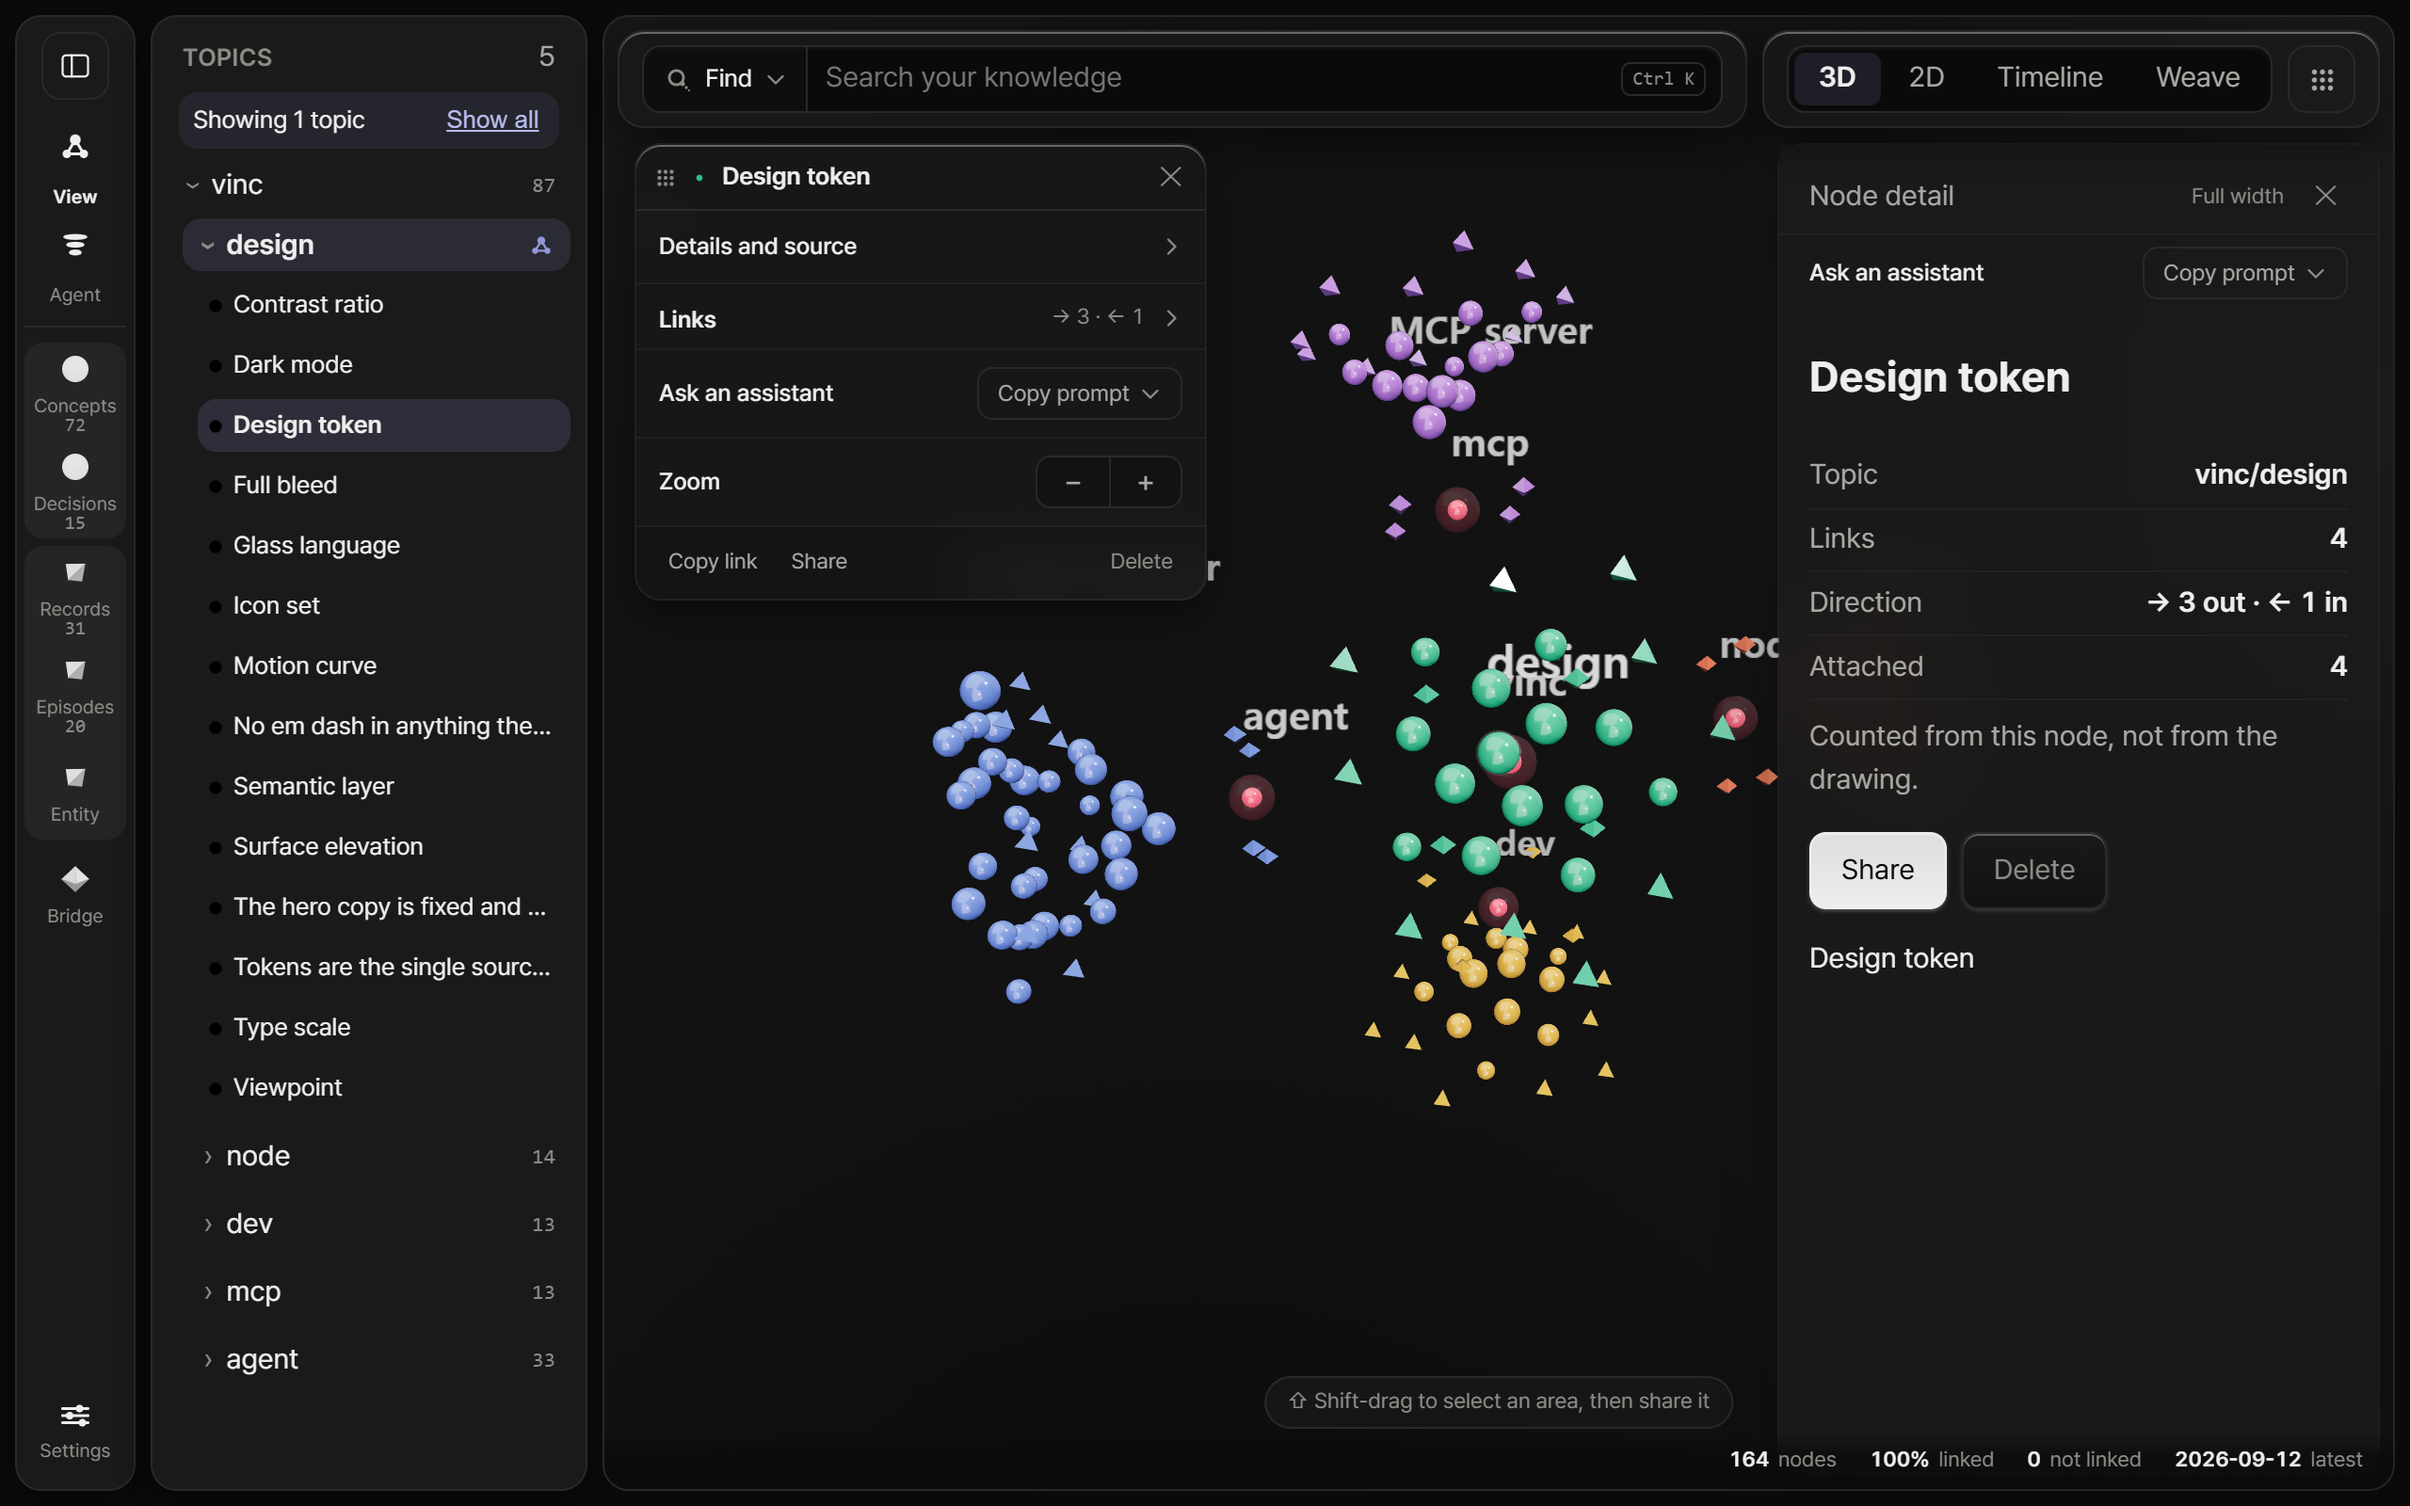
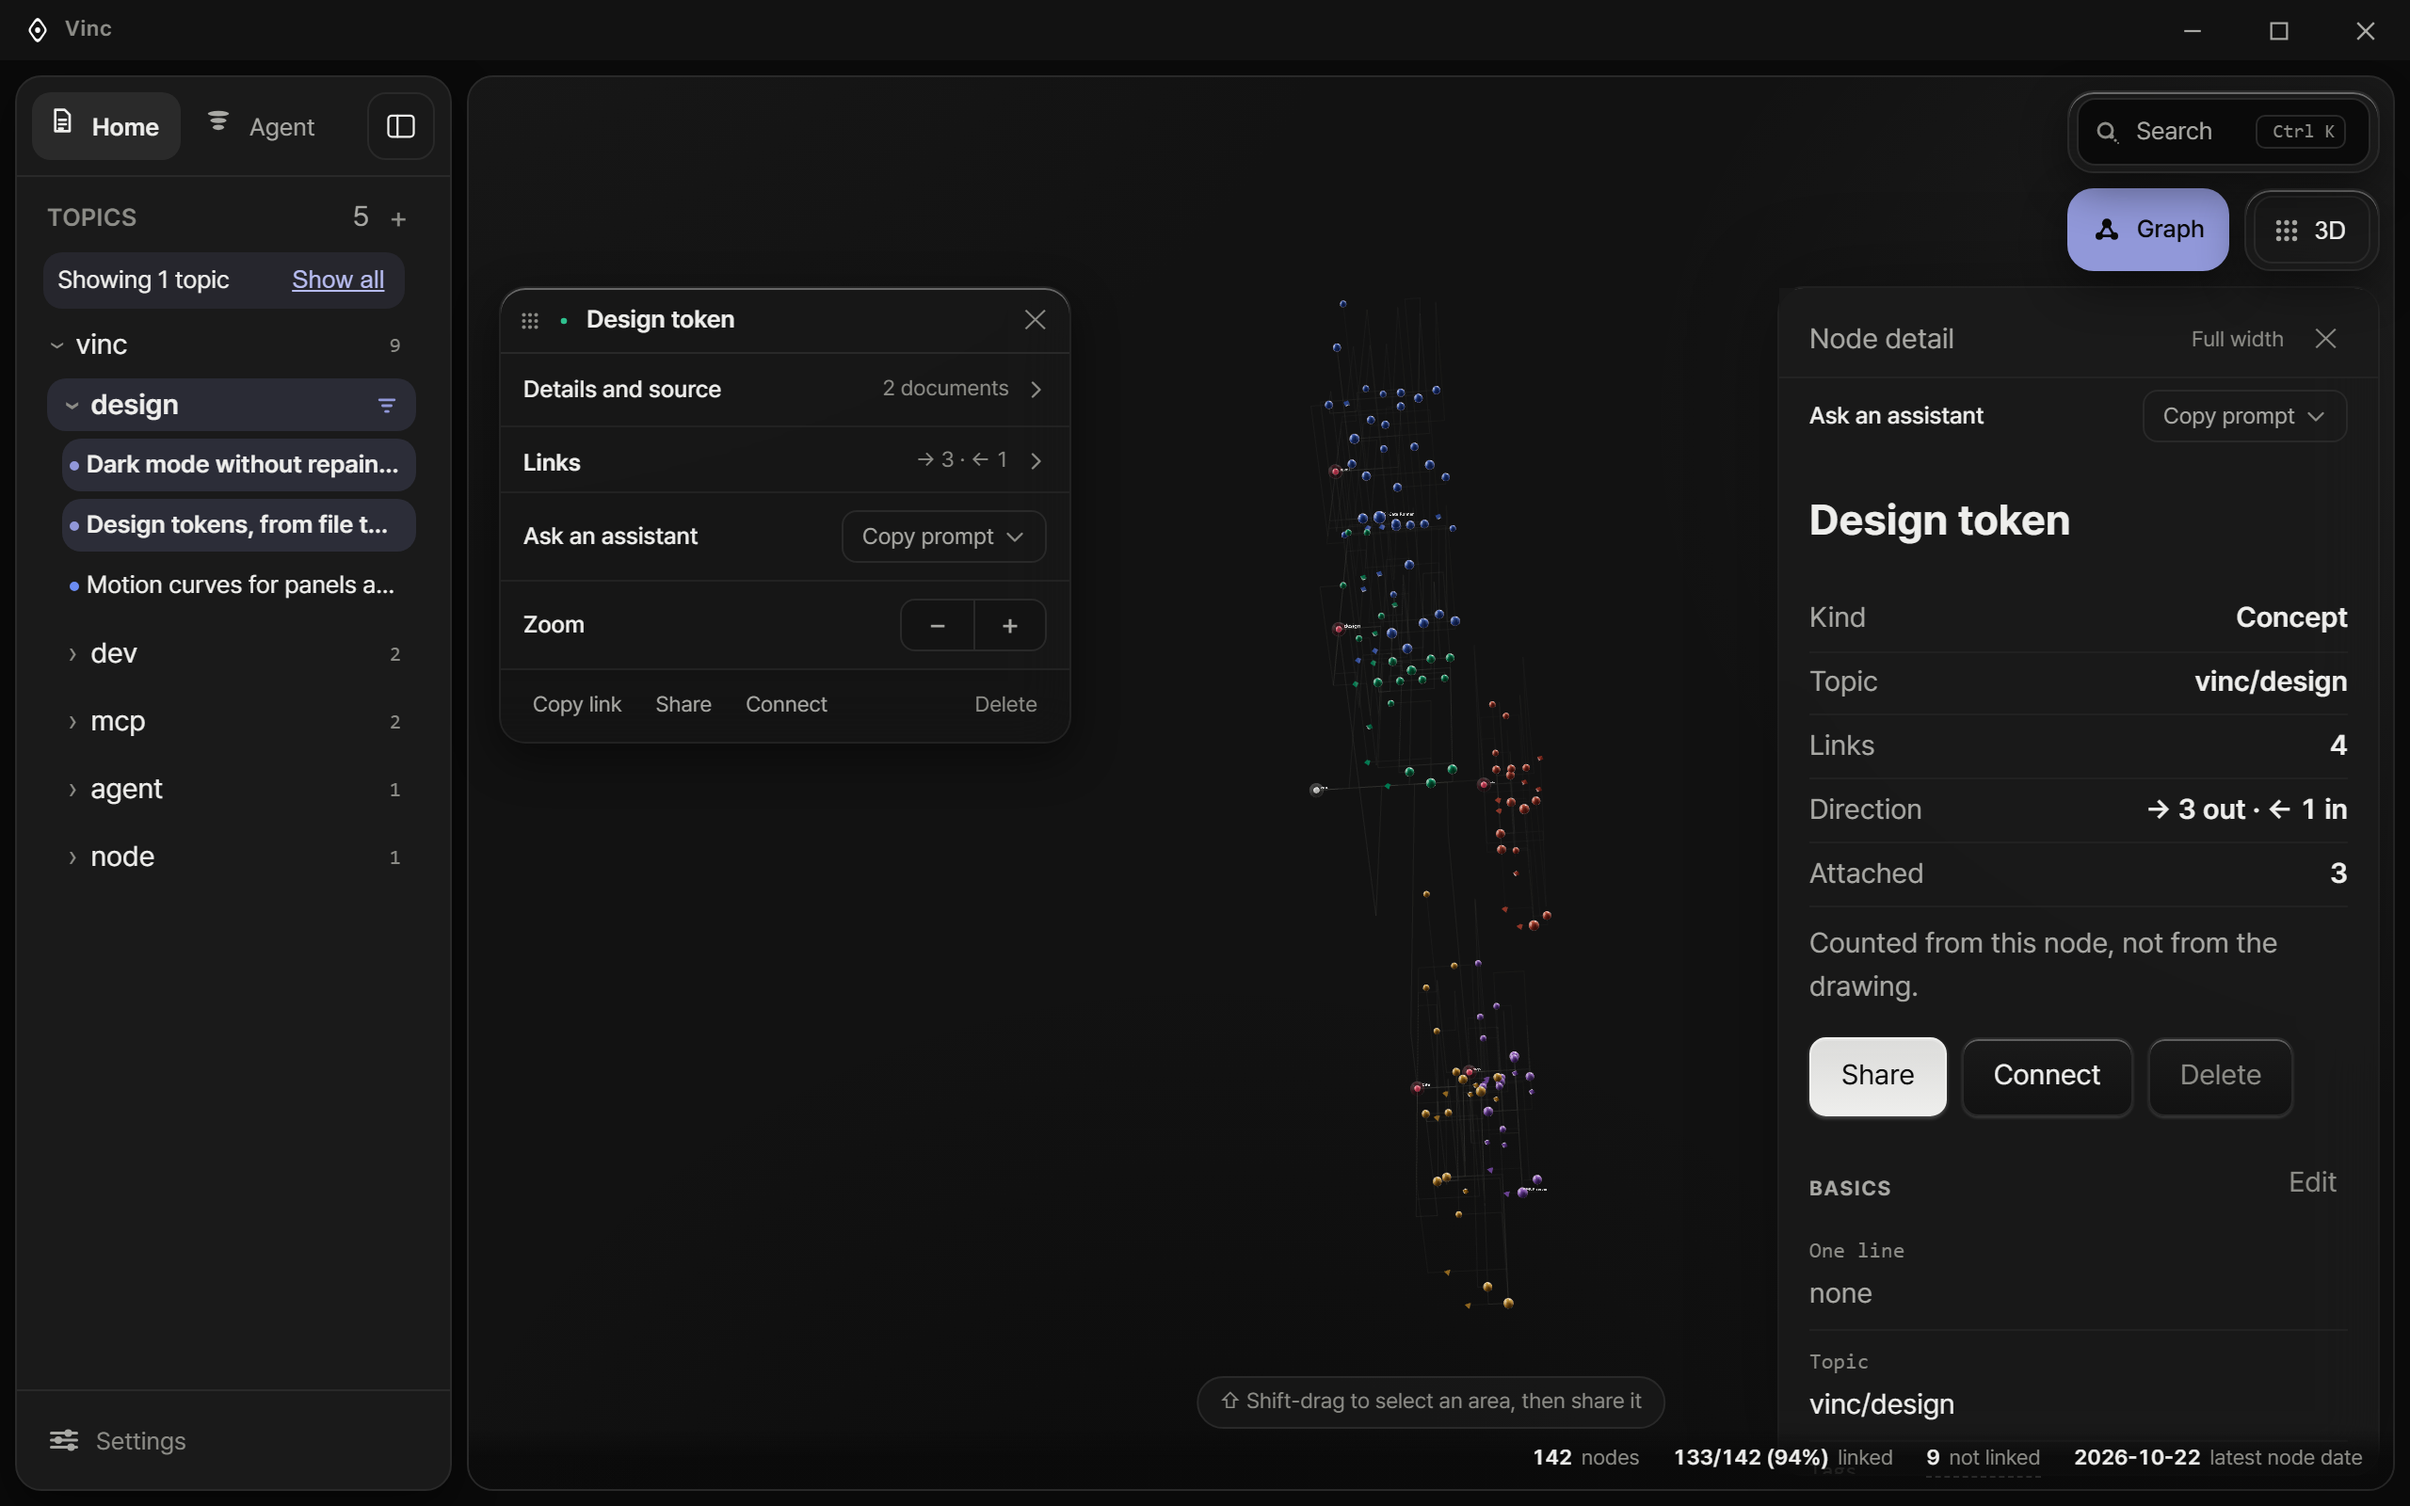
docs(readme): screenshots of the 0.9.8 shell on the demo graph
문서 홈을 대표 이미지로, 3D·2D 시간순 가지, Weave, 검색 알약, Agent, 문서 면을 새 셸에서 다시 찍었다.
옛 3D 대표 이미지 두 장은 지웠다.

diff --git a/README.md b/README.md
@@ -33,10 +33,10 @@ Vinc is a knowledge graph you and your AI assistants share. Bring in documents a
 - **You decide where it lives and what leaves.** The graph lives in your account by default. Local mode keeps it in a folder you pick, with no copy in the account. To share, select part of the graph and send it as a pack: only that part goes.
 
 <p align="center">
-  <img alt="Vinc showing the public demo graph in 3D: five topics in five jewel colours, with the search card and the view card in the top bar" src="docs/images/hero-3d-dark.png" width="900">
+  <img alt="Vinc opening on the document home: documents newest first, topic chips and a title filter, with search and the Graph button at the top right" src="docs/images/home.png" width="900">
 </p>
 <p align="center">
-  <em>The public demo graph in 3D. Five topics (design, node, agent, mcp, dev) each take a jewel colour. Shape tells the kind: a sphere is a concept, a tetrahedron a document, an octahedron a bridge.</em>
+  <em>The document home, the first screen, on the demo graph. Every document, newest first, narrowed by topic or title. The sidebar holds Home, Agent and the topics; search and the Graph button sit at the top right.</em>
 </p>
 
 ## Get started
@@ -71,7 +71,7 @@ sha256sum --check --ignore-missing SHA256SUMS
 ## See it in action
 
 <p align="center">
-  <img alt="The Design token node opened in View: its card with Ask an assistant, and the Node detail pane with topic, links and attached records" src="docs/images/node-detail.png" width="900">
+  <img alt="The Design token node opened in View: its card with Ask an assistant, and the Node detail pane with its kind, topic, links and the documents it appears in" src="docs/images/node-detail.png" width="900">
 </p>
 
 Every node can be handed to an assistant as an address. Open a node in View (here, **Design token** from the demo graph), and in its card choose **Ask an assistant**, **Copy prompt**, **Explain this concept**. You get one line to paste into any assistant connected to Vinc:
@@ -108,10 +108,10 @@ From there the assistant can walk one hop at a time with `vinc_neighbors`, trace
 | Capability | What you get |
 |---|---|
 | **Documents first** | The first screen is a document home: every document, newest first, narrowed by topic or title, read and written in place. The sidebar holds Home, Agent and your topics with their documents, and folds to a strip of icons. |
-| **View, four viewpoints** | 3D, 2D, Timeline and Weave over the same graph, opened with the **Graph** button. It opens as time branches in 3D: each Topic grows one arm and its items run left to right by date. You can switch to **by centre** in the view card. Nodes are glass, each topic wears its own jewel colour, and shape tells the kind. A time cursor limits View to what existed at a date, and Flow plays it forward. The Timeline takes a period: the last 7, 30 or 90 days, this year, or dates you pick. |
+| **View, four viewpoints** | 3D, 2D, Timeline and Weave over the same graph, opened with the **Graph** button. It opens as time branches in 3D: each Topic grows one arm with its items left to right by date, and the topics wind around the main one. You can switch to **by centre** in the view card. Nodes are glass, each topic wears its own jewel colour, and shape tells the kind. A time cursor limits View to what existed at a date, and Flow plays it forward. The Timeline takes a period: the last 7, 30 or 90 days, this year, or dates you pick. |
 | **Find and Ask** | Find looks up names and keywords (and ranks by meaning on the account graph). **Search inside documents**, under the Find results, reads the text of your documents and shows the passage that matched. Korean is indexed two characters at a time, so a word is found even with a particle attached. Ask answers *What is X* and *Sources for X* by quoting your documents. |
 | **Node detail** | For any node: its topic, links out and in, the documents behind it, and its properties. Edit properties in place as text, list, number, yes or no, or JSON. If the node changed after you started editing, Vinc does not save over it. |
-| **Add knowledge** | Drag in `.md`, `.txt`, `.rst` or `.pdf`, or start a new document or node where you are: from the tree, the palette, a shortcut or a right-click. Type `[[` to link a node, and in View hold Alt (Option on a Mac) and drag from one node to another to connect them. Import says where the files go (this device, your account or a team space) and which documents it adds, refreshes or leaves as they are. |
+| **Add knowledge** | Drag in `.md`, `.txt`, `.rst` or `.pdf`, or start a new document or node where you are: **New document** and **Import files** on the document home, the tree, the palette, a shortcut or a right-click. Type `[[` to link a node, and in View hold Alt (Option on a Mac) and drag from one node to another to connect them. Import says where the files go (this device, your account or a team space) and which documents it adds, refreshes or leaves as they are. |
 | **Packs** | Shift-drag to select an area, or start from a node, and share it as a `.vincpack`. Records and decisions travel with it. Import a pack, or double-click one, and it joins your graph. |
 | **Agent roles** | Roles are nodes in your graph, listed under **Agent** by team. Press **+** above the list to make a new one; with no roles yet, the list offers **New Agent role**. A role's properties hold its mission and what it must never do, and **Work as this role** copies a prompt that hands the role to an assistant. An assistant can check its work against the role with `vinc_role_check`. |
 | **Spaces** | Switch between your personal graph and a team's shared graph in Settings, Account · storage. Every screen follows the space you pick. |
@@ -121,20 +121,28 @@ From there the assistant can walk one hop at a time with `vinc_neighbors`, trace
 
 <table>
   <tr>
-    <td width="50%"><img alt="The demo graph in 2D" src="docs/images/view-2d.png"></td>
-    <td width="50%"><img alt="The demo graph in Weave" src="docs/images/view-weave.png"></td>
+    <td width="50%"><img alt="The demo graph in 3D time branches" src="docs/images/view-3d.png"></td>
+    <td width="50%"><img alt="The demo graph in 2D time branches" src="docs/images/view-2d.png"></td>
   </tr>
   <tr>
-    <td><em>2D: the same graph, flat. Each topic gathers around its hub.</em></td>
+    <td><em>3D: each topic grows an arm along time, earlier on the left, and the topics wind around the main one.</em></td>
+    <td><em>2D: the same branches, flat. Each topic box reads left to right by date.</em></td>
+  </tr>
+  <tr>
+    <td><img alt="The demo graph in Weave" src="docs/images/view-weave.png"></td>
+    <td><img alt="Search with the query token and its results" src="docs/images/find-results.png"></td>
+  </tr>
+  <tr>
     <td><em>Weave: every node on the ring by topic, and only the links cross the middle.</em></td>
+    <td><em>Find: type <code>token</code> in the search pill and the matching nodes and documents come back with their topic. ≈ marks a match by meaning.</em></td>
   </tr>
   <tr>
-    <td><img alt="Find with the query token and its results" src="docs/images/find-results.png"></td>
     <td><img alt="The Agent list with CI Gate Runner open" src="docs/images/agent-list.png"></td>
+    <td><img alt="A document open on the document home, with its topic and node beside it" src="docs/images/doc-read.png"></td>
   </tr>
   <tr>
-    <td><em>Find: type <code>token</code> and the matching nodes come back with their topic. Enter opens the pick in View.</em></td>
     <td><em>Agent: roles grouped by team, with who each one works from and hands off to. CI Gate Runner carries its mission, team and tier as properties.</em></td>
+    <td><em>A document opens in place, with its topic and the node it became beside it. <strong>Show in graph</strong> jumps to that node.</em></td>
   </tr>
 </table>
 
